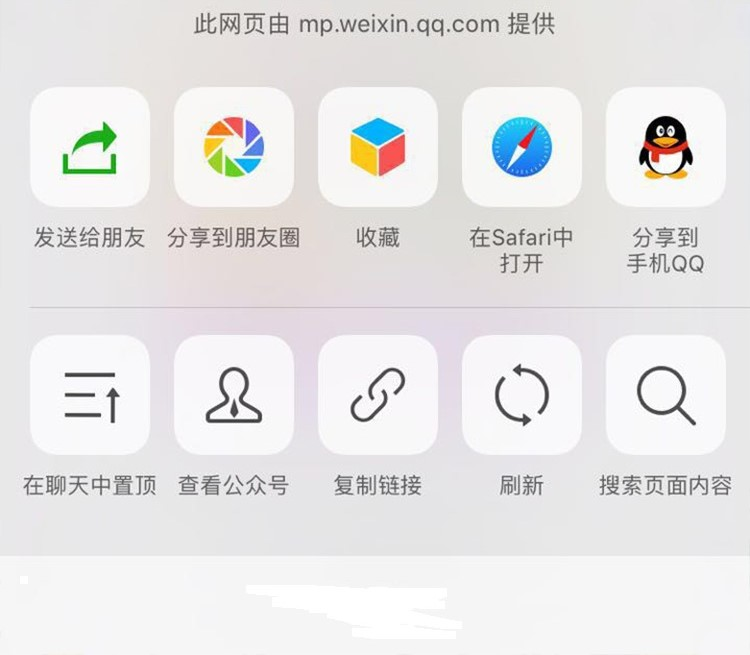
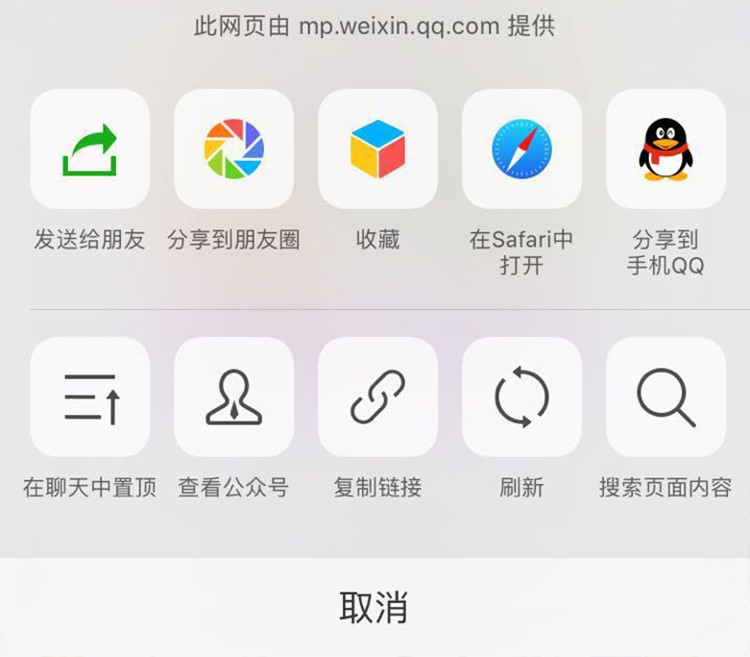
first commit

diff --git a/css/index.css b/css/index.css
@@ -319,7 +319,7 @@
 
 .share_date{
     width: 10rem;
-    height: 17.79rem;
+    height: 100%;
     position: fixed;
     top: 0;
     z-index: 20;
@@ -327,7 +327,7 @@
     display: none;
 }
 .share_date_con{
-    width: 10rem;
+    width: inherit;
     height: 8.73rem;
     position: absolute;
     bottom: 0;
@@ -335,17 +335,7 @@
     background-image: url(../images/share.jpg);
     background-size: 100% 100%;
 }
-.share_down{
-	bottom: -8.73rem; 
-}
-/*.share_date img{
-	width: inherit;
-    height: inherit;
-    position: absolute;
-    top: 0;
-   	left: 0;
-    z-index: 6;
-}*/
+
 .cancel{
 	display: block;
 	position: absolute;
